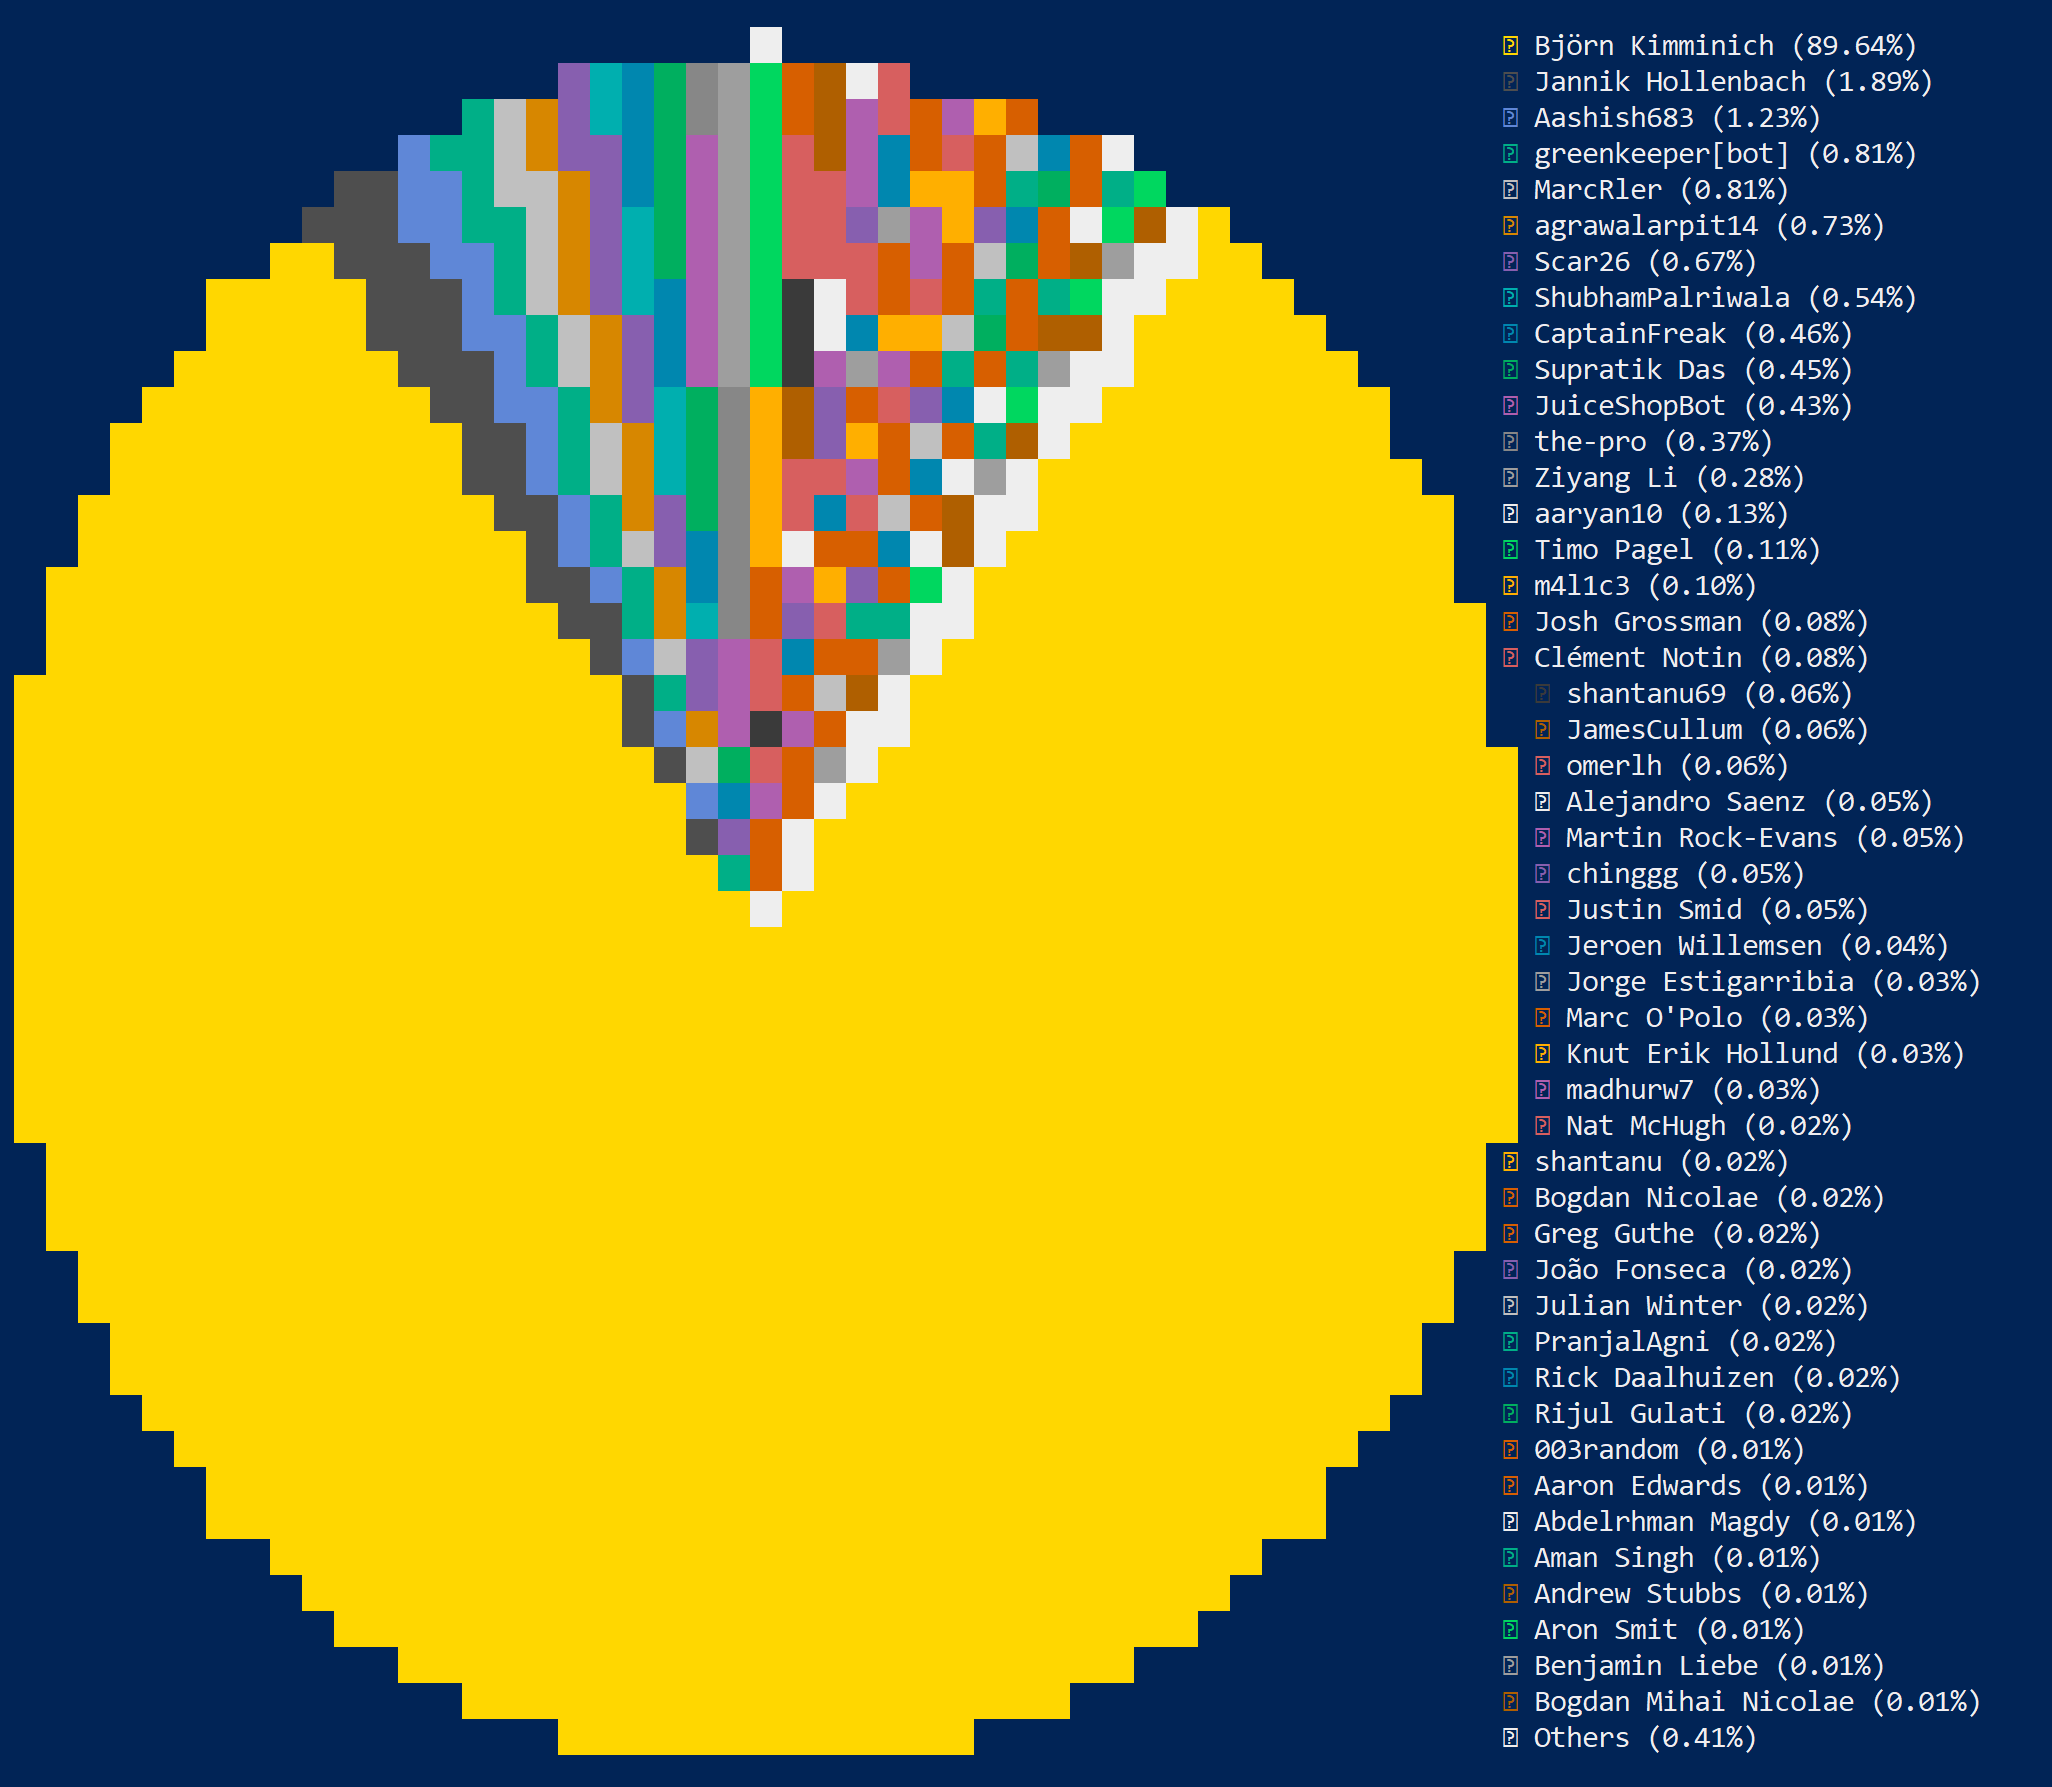
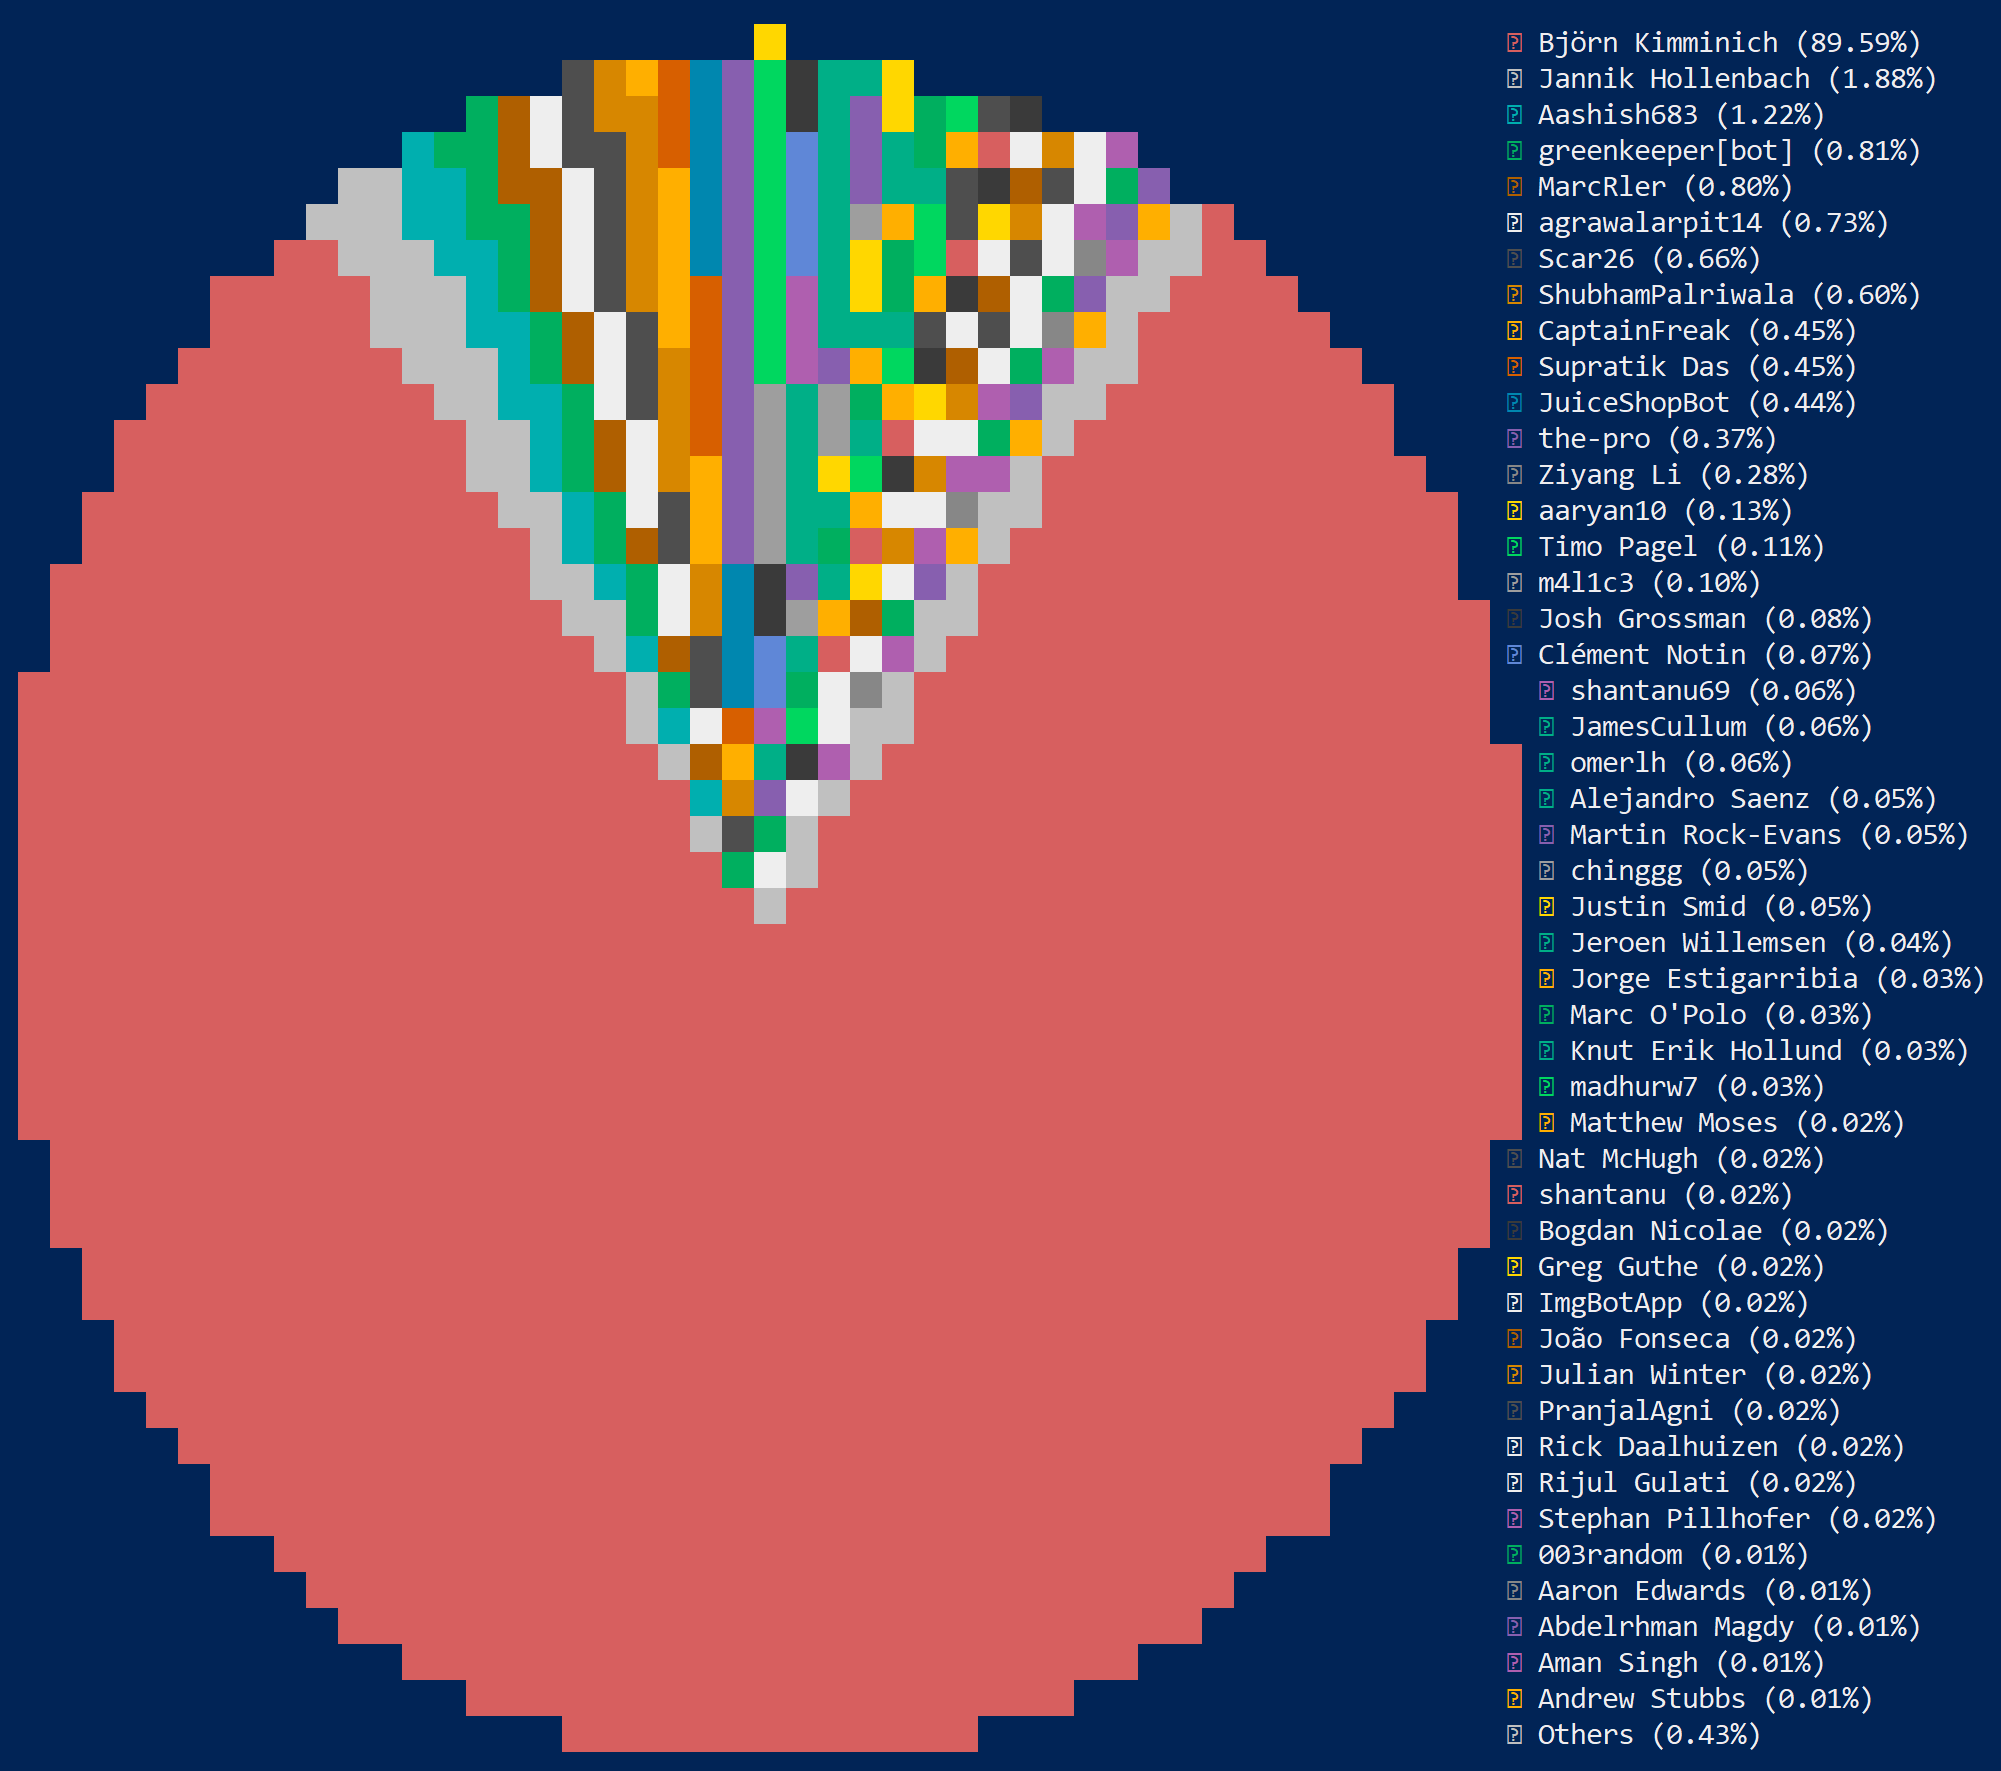
Update contributor stats

diff --git a/HALL_OF_FAME.md b/HALL_OF_FAME.md
@@ -10,7 +10,7 @@
 
 ## GitHub Contributors
 
-As reported by [`git-stats -a -s '2014'`](https://www.npmjs.com/package/git-stats) analysis of `master` as of Wed, 24 Aug
+As reported by [`git-stats -a -s '2014'`](https://www.npmjs.com/package/git-stats) analysis of `master` as of Mon, 26 Sep
 2022 after deduplication with `.mailmap`.
 
 ![Top git contributors](screenshots/git-stats.png)
